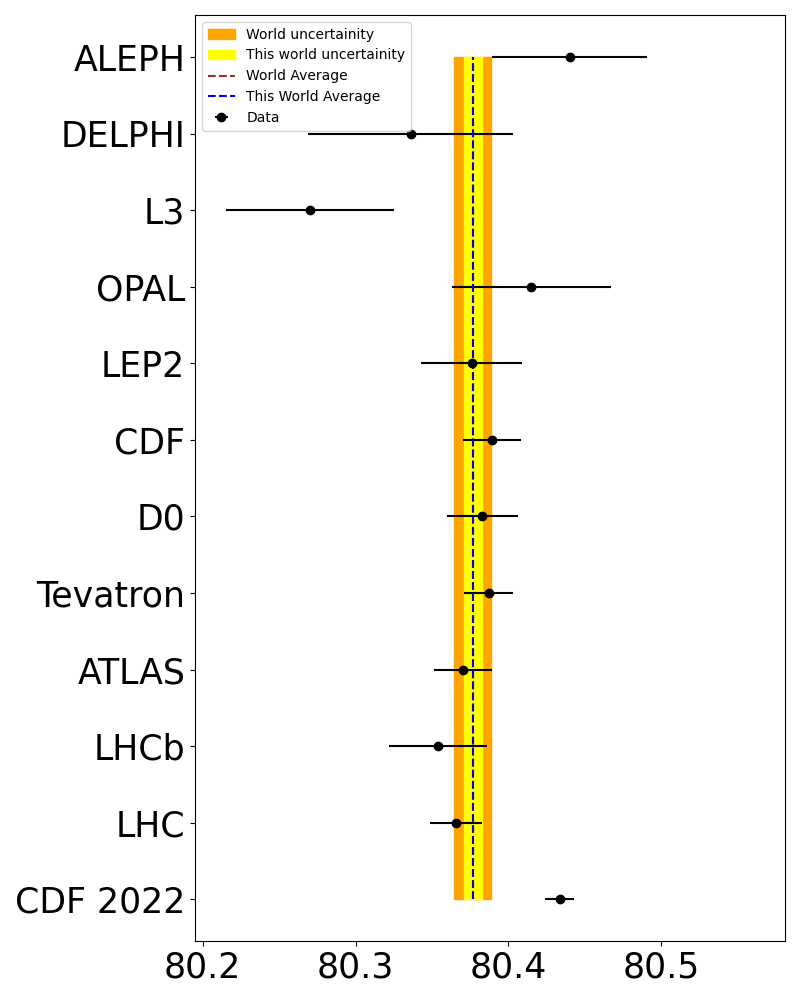
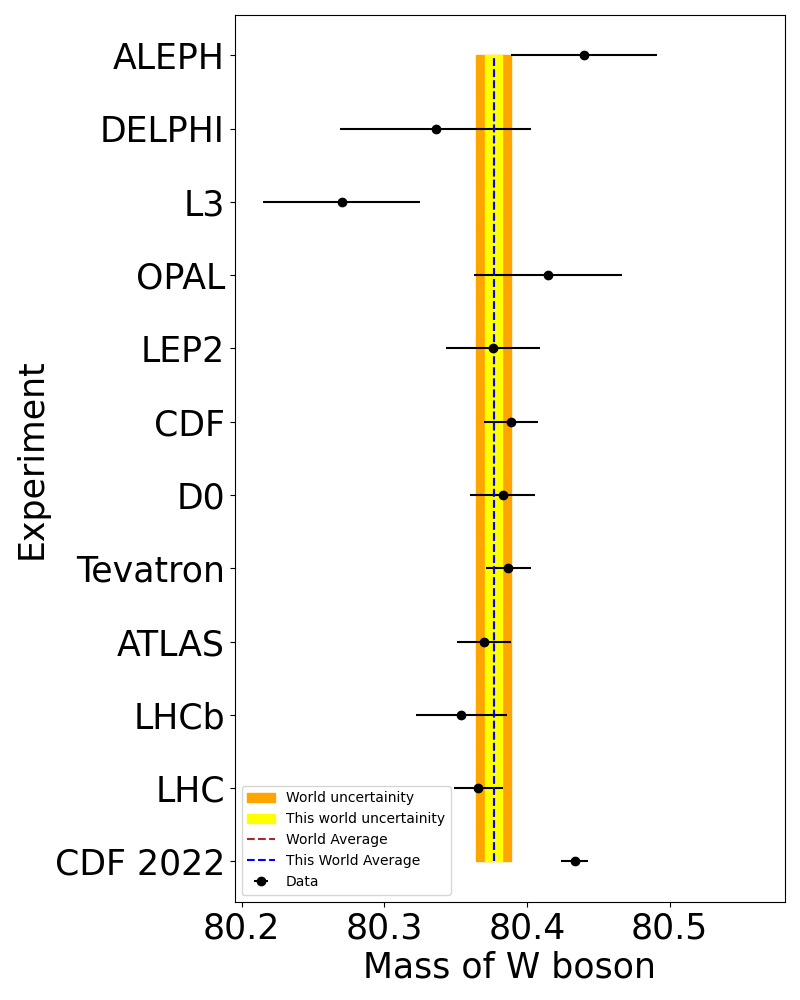
add axes label

diff --git a/wmass.py b/wmass.py
@@ -45,8 +45,10 @@ plt.fill_betweenx(df2['Experiment'],(df2['Mass'].mean()-.012)*np.ones(len(df2)),
 plt.fill_betweenx(df2['Experiment'],(df2['Mass'].mean()-std)*np.ones(len(df2)),(df2['Mass'].mean()+std)*np.ones(len(df2)),color='yellow',label='This world uncertainity')
 plt.plot(80.377*np.ones(len(df2)),df2['Experiment'],linestyle='--',label='World Average',color='brown')
 plt.plot(df2['Mass'].mean()*np.ones(len(df2)),df2['Experiment'],linestyle='--',label='This World Average',color='blue')
-
+plt.xlabel('Mass of W boson')
+plt.ylabel('Experiment')
 plt.legend()
 fig.tight_layout()
 plt.savefig("wmass_plot.png")
+plt.savefig("wmass_plot.pdf")
 plt.show()
